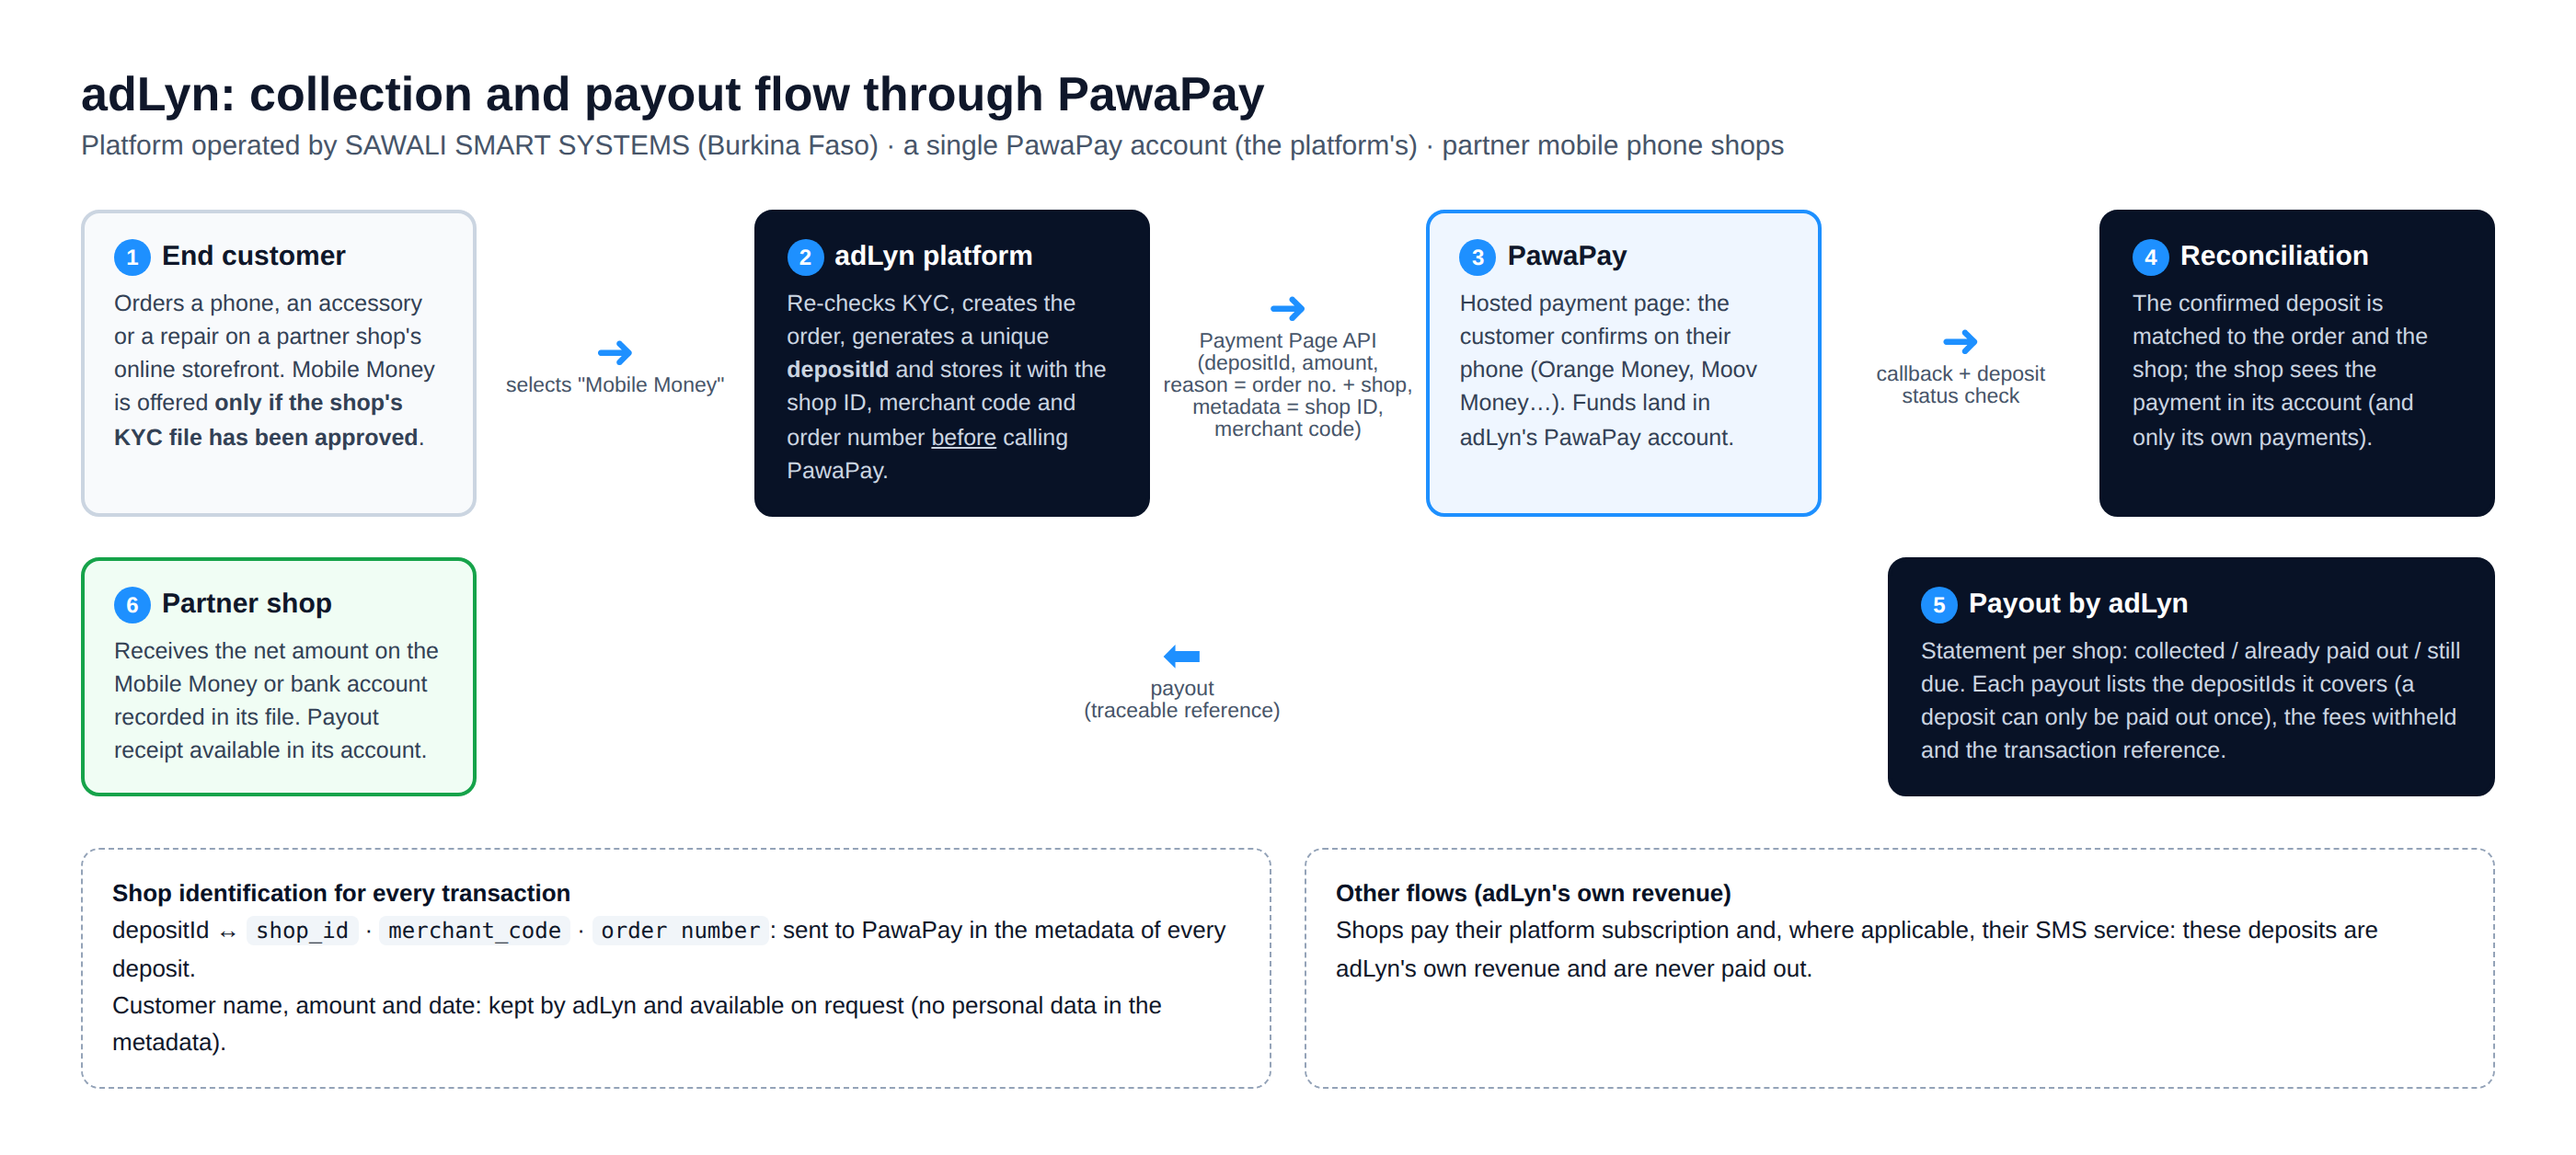
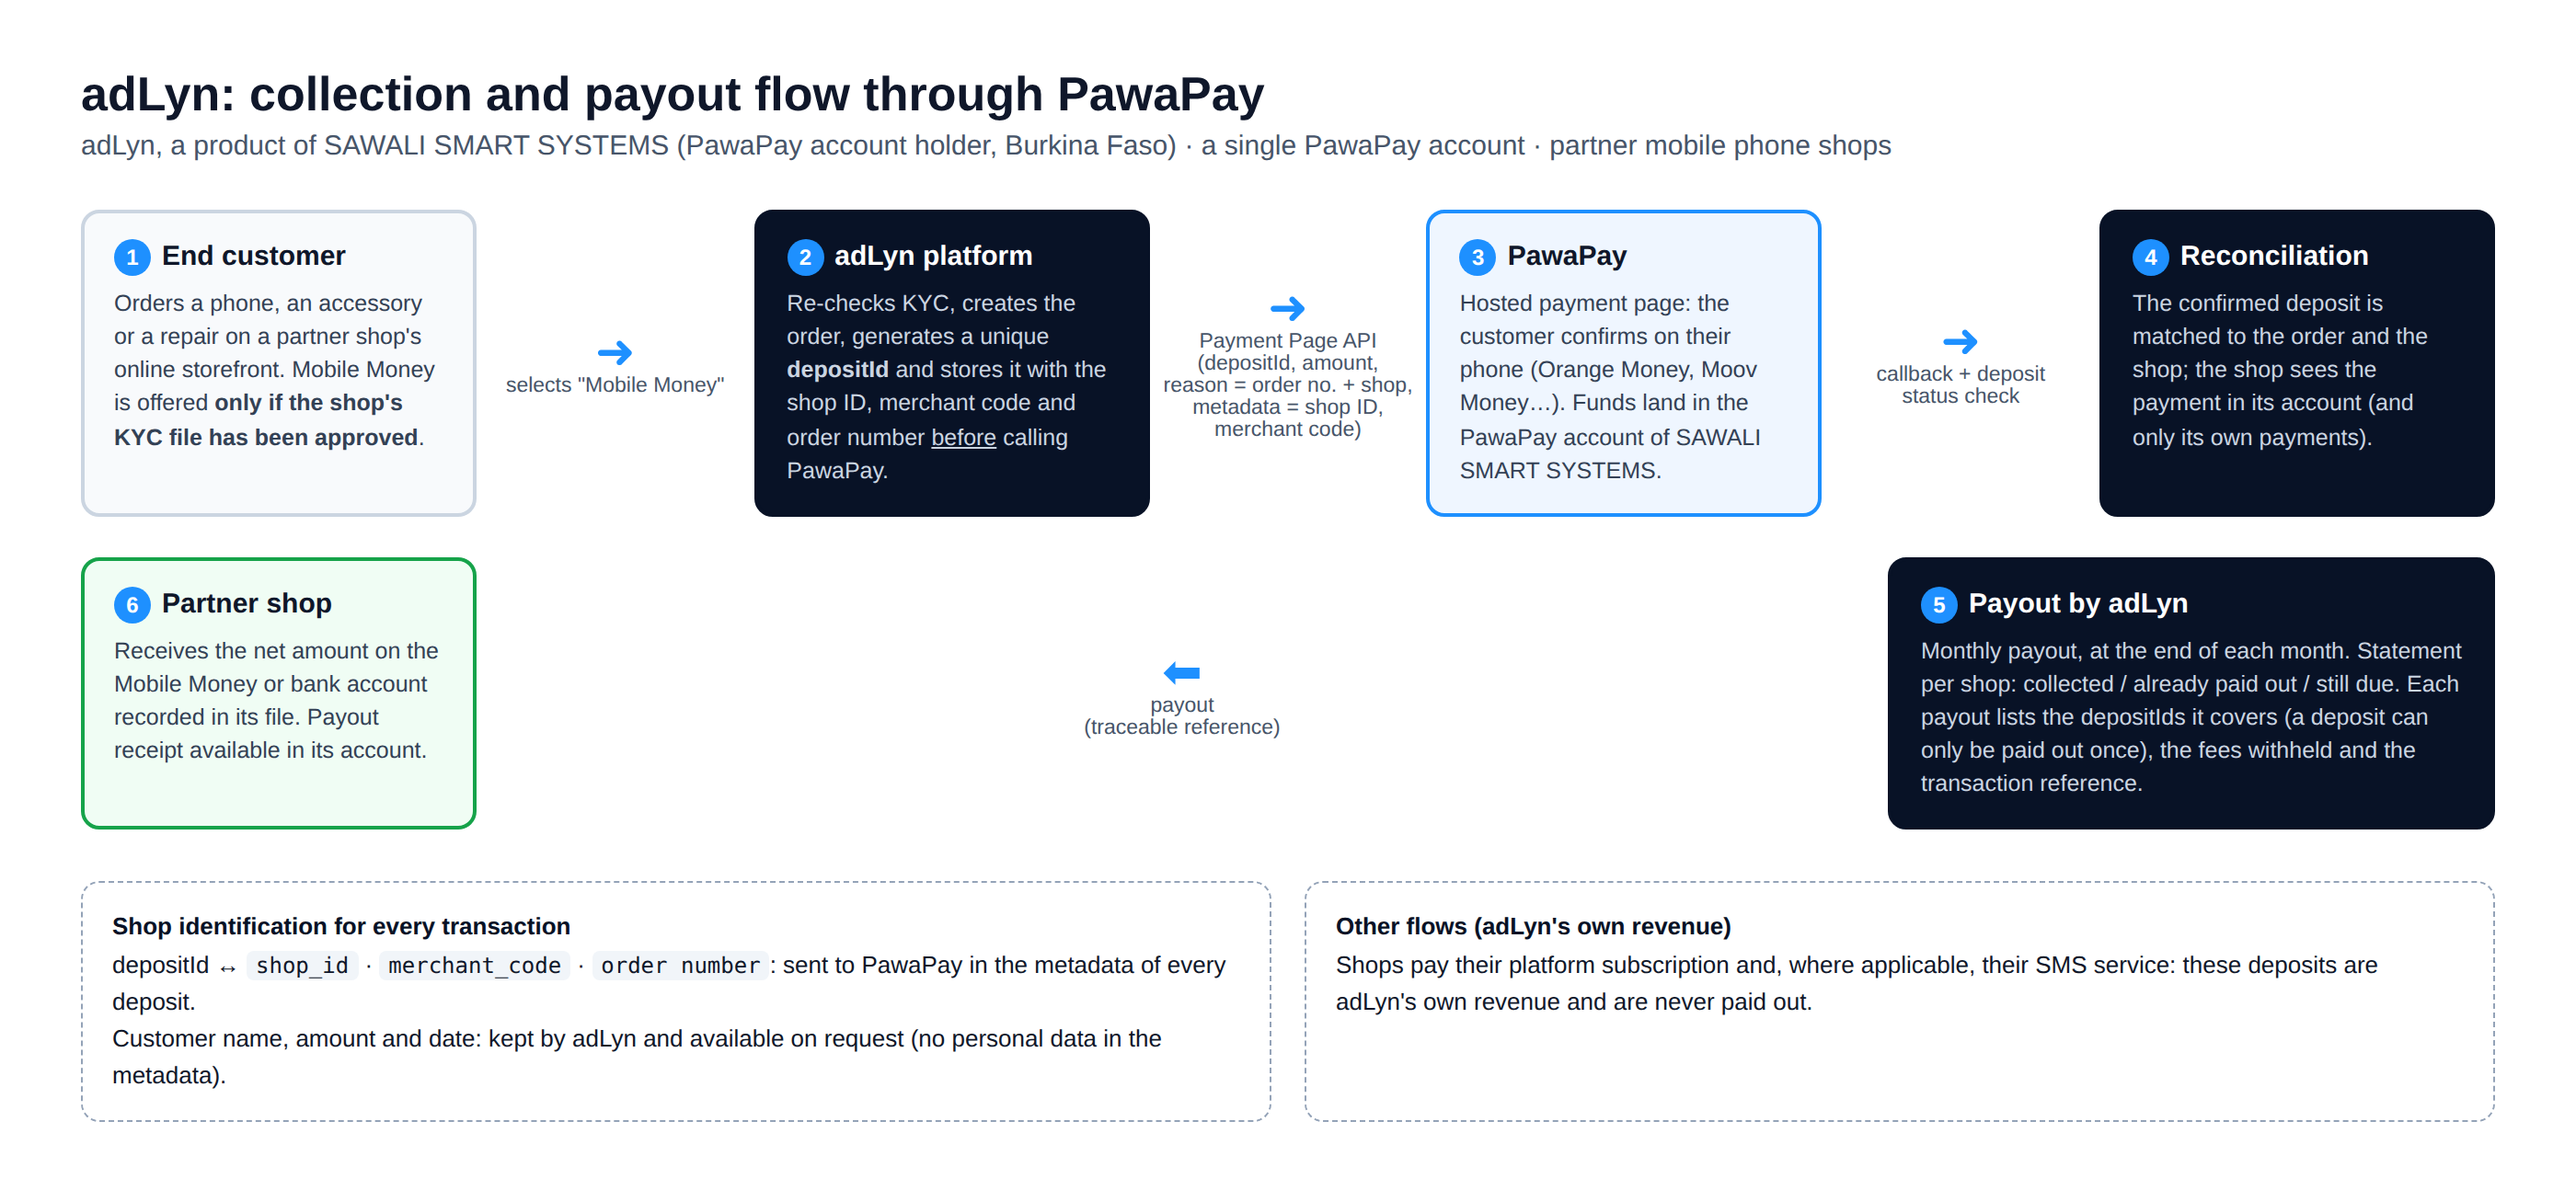
PawaPay : identité SAWALI SMART SYSTEMS, reversements mensuels, contact et sites cités
Claude-Session: https://claude.ai/code/session_01FVtQuMgjikYRacDJo2sMuA

diff --git a/pawapay/schema.html b/pawapay/schema.html
@@ -21,14 +21,14 @@
   code{background:#f1f5f9;padding:1px 5px;border-radius:4px;font-size:12px}
 </style></head><body><div class="page">
 <h1>adLyn : flux d'encaissement et de reversement via PawaPay</h1>
-<div class="sous">Plateforme éditée par SAWALI SMART SYSTEMS (Burkina Faso) · un compte PawaPay unique (celui de la plateforme) · boutiques de téléphonie partenaires</div>
+<div class="sous">adLyn, produit de SAWALI SMART SYSTEMS (titulaire du compte PawaPay, Burkina Faso) · un compte PawaPay unique · boutiques de téléphonie partenaires</div>
 
 <div class="ligne">
   <div class="boite"><h3><span class="num">1</span>Client final</h3><p>Commande un téléphone, un accessoire ou une réparation sur la vitrine en ligne d'une boutique partenaire. Option Mobile Money proposée <b>uniquement si le dossier KYC de la boutique est validé</b>.</p></div>
   <div class="fleche"><span class="t">➜</span>choisit « Mobile Money »</div>
   <div class="boite plat"><h3><span class="num">2</span>Plateforme adLyn</h3><p>Revérifie le KYC, crée la commande, génère un <b>depositId</b> unique et l'enregistre avec l'identifiant de la boutique, son code marchand et le n° de commande <u>avant</u> l'appel à PawaPay.</p></div>
   <div class="fleche"><span class="t">➜</span>API Payment Page<br>(depositId, montant,<br>reason = n° commande + boutique)</div>
-  <div class="boite pawa"><h3><span class="num">3</span>PawaPay</h3><p>Page de paiement hébergée : le client valide sur son téléphone (Orange Money, Moov Money…). Les fonds arrivent sur le compte PawaPay d'adLyn.</p></div>
+  <div class="boite pawa"><h3><span class="num">3</span>PawaPay</h3><p>Page de paiement hébergée : le client valide sur son téléphone (Orange Money, Moov Money…). Les fonds arrivent sur le compte PawaPay de SAWALI SMART SYSTEMS.</p></div>
   <div class="fleche"><span class="t">➜</span>callback + vérification<br>du statut du dépôt</div>
   <div class="boite plat"><h3><span class="num">4</span>Rapprochement</h3><p>Le dépôt confirmé est rattaché à la commande et à la boutique ; la boutique voit le paiement dans son espace (et uniquement les siens).</p></div>
 </div>
@@ -36,7 +36,7 @@
 <div class="ligne" style="margin-top:22px;justify-content:flex-end">
   <div class="boite bout"><h3><span class="num">6</span>Boutique partenaire</h3><p>Reçoit le montant net sur le compte Mobile Money ou bancaire déclaré dans son dossier. Reçu de reversement consultable dans son espace.</p></div>
   <div class="fleche"><span class="t">⬅</span>reversement<br>(référence tracée)</div>
-  <div class="boite plat" style="width:330px"><h3><span class="num">5</span>Reversement par adLyn</h3><p>Relevé par boutique : encaissé / déjà reversé / reste dû. Chaque reversement liste les depositId couverts (un dépôt ne peut être reversé qu'une seule fois), les frais retenus et la référence de l'opération.</p></div>
+  <div class="boite plat" style="width:330px"><h3><span class="num">5</span>Reversement par adLyn</h3><p>Reversement mensuel, en fin de mois. Relevé par boutique : encaissé / déjà reversé / reste dû. Chaque reversement liste les depositId couverts (un dépôt ne peut être reversé qu'une seule fois), les frais retenus et la référence de l'opération.</p></div>
 </div>
 
 <div class="bloc">

diff --git a/pawapay/schema_en.html b/pawapay/schema_en.html
@@ -21,14 +21,14 @@
   code{background:#f1f5f9;padding:1px 5px;border-radius:4px;font-size:12px}
 </style></head><body><div class="page">
 <h1>adLyn: collection and payout flow through PawaPay</h1>
-<div class="sous">Platform operated by SAWALI SMART SYSTEMS (Burkina Faso) · a single PawaPay account (the platform's) · partner mobile phone shops</div>
+<div class="sous">adLyn, a product of SAWALI SMART SYSTEMS (PawaPay account holder, Burkina Faso) · a single PawaPay account · partner mobile phone shops</div>
 
 <div class="ligne">
   <div class="boite"><h3><span class="num">1</span>End customer</h3><p>Orders a phone, an accessory or a repair on a partner shop's online storefront. Mobile Money is offered <b>only if the shop's KYC file has been approved</b>.</p></div>
   <div class="fleche"><span class="t">➜</span>selects "Mobile Money"</div>
   <div class="boite plat"><h3><span class="num">2</span>adLyn platform</h3><p>Re-checks KYC, creates the order, generates a unique <b>depositId</b> and stores it with the shop ID, merchant code and order number <u>before</u> calling PawaPay.</p></div>
   <div class="fleche"><span class="t">➜</span>Payment Page API<br>(depositId, amount,<br>reason = order no. + shop,<br>metadata = shop ID, merchant code)</div>
-  <div class="boite pawa"><h3><span class="num">3</span>PawaPay</h3><p>Hosted payment page: the customer confirms on their phone (Orange Money, Moov Money…). Funds land in adLyn's PawaPay account.</p></div>
+  <div class="boite pawa"><h3><span class="num">3</span>PawaPay</h3><p>Hosted payment page: the customer confirms on their phone (Orange Money, Moov Money…). Funds land in the PawaPay account of SAWALI SMART SYSTEMS.</p></div>
   <div class="fleche"><span class="t">➜</span>callback + deposit<br>status check</div>
   <div class="boite plat"><h3><span class="num">4</span>Reconciliation</h3><p>The confirmed deposit is matched to the order and the shop; the shop sees the payment in its account (and only its own payments).</p></div>
 </div>
@@ -36,7 +36,7 @@
 <div class="ligne" style="margin-top:22px;justify-content:flex-end">
   <div class="boite bout"><h3><span class="num">6</span>Partner shop</h3><p>Receives the net amount on the Mobile Money or bank account recorded in its file. Payout receipt available in its account.</p></div>
   <div class="fleche"><span class="t">⬅</span>payout<br>(traceable reference)</div>
-  <div class="boite plat" style="width:330px"><h3><span class="num">5</span>Payout by adLyn</h3><p>Statement per shop: collected / already paid out / still due. Each payout lists the depositIds it covers (a deposit can only be paid out once), the fees withheld and the transaction reference.</p></div>
+  <div class="boite plat" style="width:330px"><h3><span class="num">5</span>Payout by adLyn</h3><p>Monthly payout, at the end of each month. Statement per shop: collected / already paid out / still due. Each payout lists the depositIds it covers (a deposit can only be paid out once), the fees withheld and the transaction reference.</p></div>
 </div>
 
 <div class="bloc">
